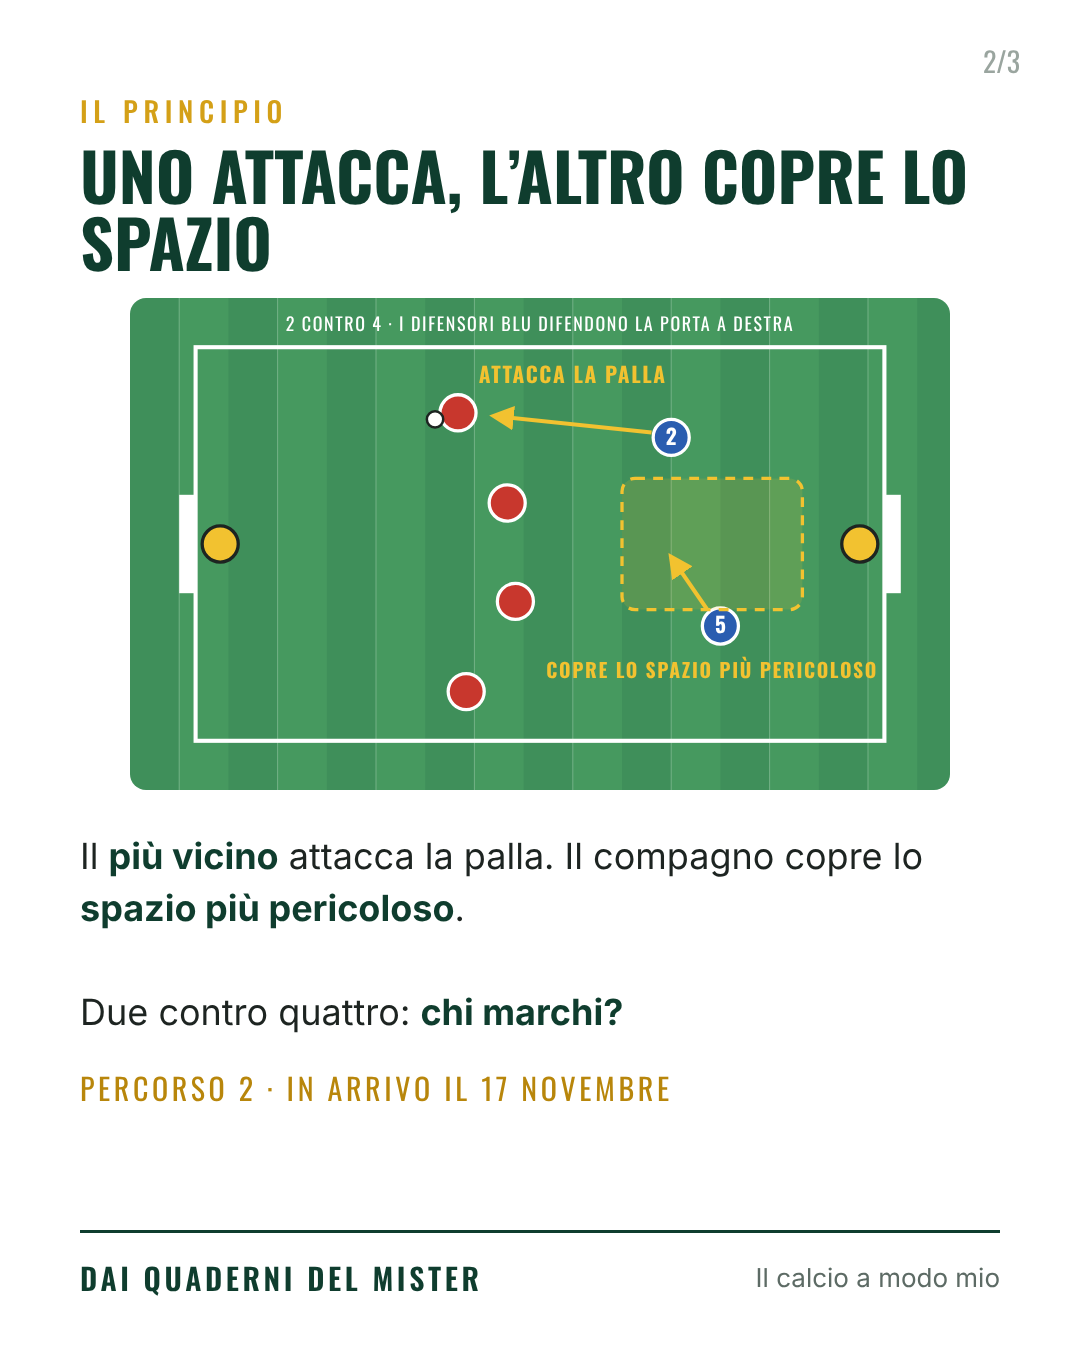
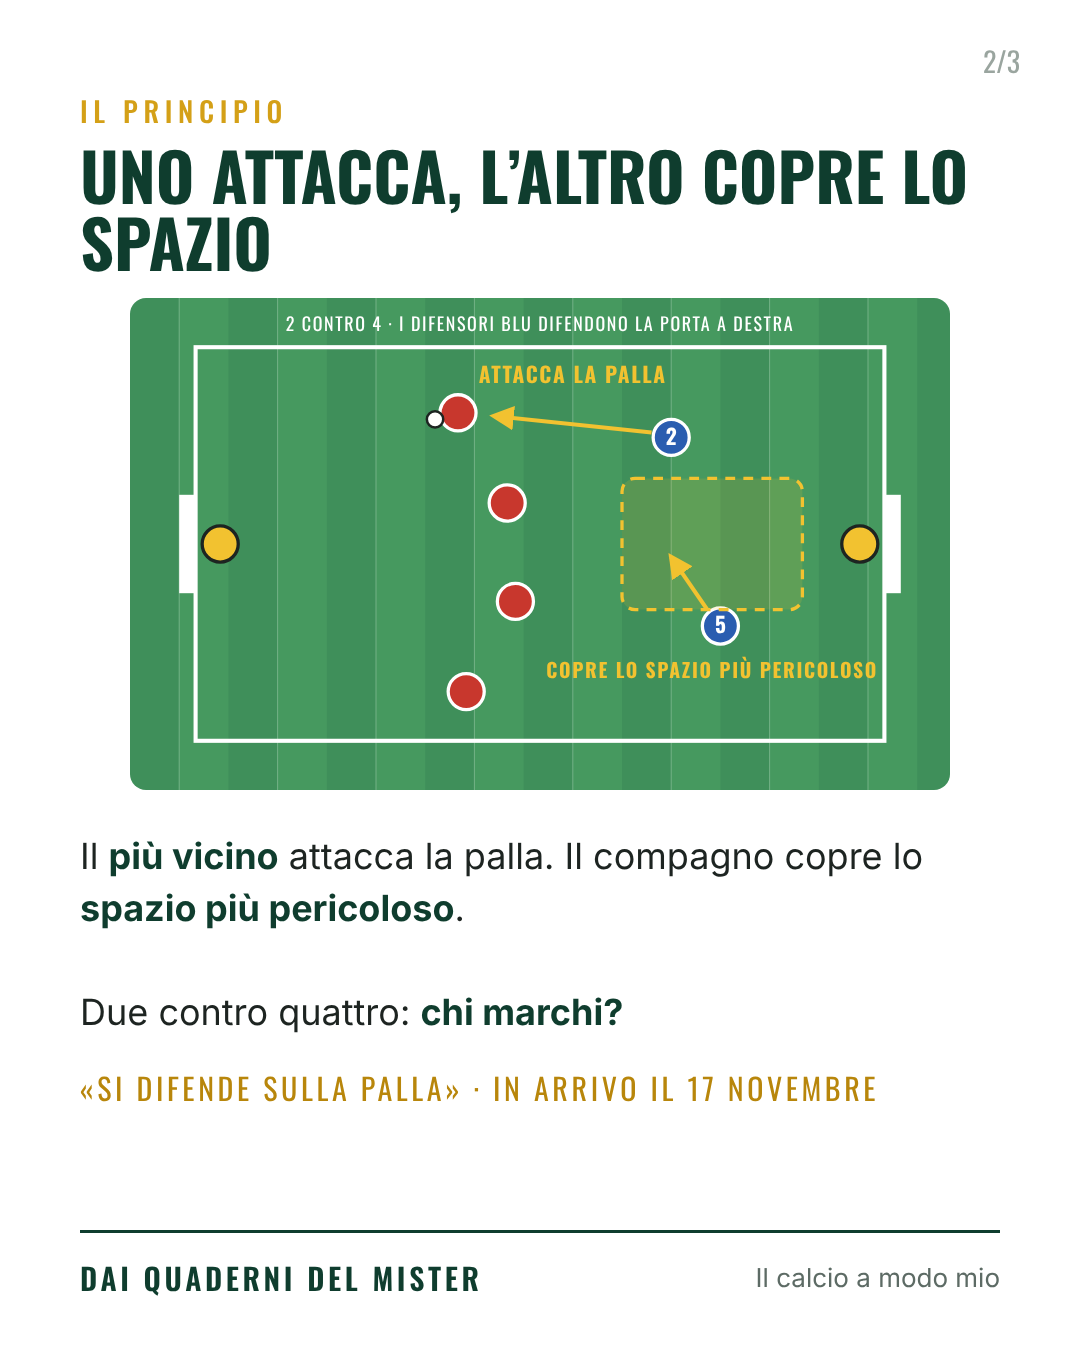
Percorso 2 diventa «Si difende sulla palla» (decisione dell'allenatore); post 13 aggiornato
Claude-Session: https://claude.ai/code/session_01Y6imChDnJpMKHUHGGzDa7m

Changed region(s): [[0.0611, 0.7778, 0.4278, 0.84], [0.4583, 0.7778, 0.6417, 0.84], [0.6722, 0.7778, 0.7944, 0.84]]

diff --git a/marketing/social/post-solo13-4x5.html b/marketing/social/post-solo13-4x5.html
@@ -108,12 +108,12 @@ h1, h2 { font-family: Oswald, sans-serif; font-weight: 700; text-transform: uppe
     <text x="270" y="52" fill="#f2c230" font-family="Oswald" font-size="13" font-weight="700" text-anchor="middle" letter-spacing="1">ATTACCA LA PALLA</text>
     <text x="355" y="232" fill="#f2c230" font-family="Oswald" font-size="12" font-weight="700" text-anchor="middle" letter-spacing="1">COPRE LO SPAZIO PIÙ PERICOLOSO</text>
     <text x="250" y="20" fill="#fff" font-family="Oswald" font-size="11" text-anchor="middle" letter-spacing="1">2 CONTRO 4 · I DIFENSORI BLU DIFENDONO LA PORTA A DESTRA</text>
-  </svg></div><p class="desc">Il <b>più vicino</b> attacca la palla. Il compagno copre lo <b>spazio più pericoloso</b>.<br><br>Due contro quattro: <b>chi marchi?</b></p><p class="desc" style="margin-top:28px;font-family:Oswald;text-transform:uppercase;letter-spacing:.12em;font-size:30px;color:#b8860b">Percorso 2 · in arrivo il 17 novembre</p>
+  </svg></div><p class="desc">Il <b>più vicino</b> attacca la palla. Il compagno copre lo <b>spazio più pericoloso</b>.<br><br>Due contro quattro: <b>chi marchi?</b></p><p class="desc" style="margin-top:28px;font-family:Oswald;text-transform:uppercase;letter-spacing:.12em;font-size:30px;color:#b8860b">«Si difende sulla palla» · in arrivo il 17 novembre</p>
   <div class="marchio"><b>DAI QUADERNI DEL MISTER</b><span>Il calcio a modo mio</span></div>
 </section>
 <section class="slide fine">
   <img class="logo2" src="../../materiale/brand/logo-cerchio.png">
   <h1>Si legge<span>la palla</span></h1>
-  <p class="sub">Dai quaderni del mister · <b>Percorso 2</b> in arrivo.<br><br>Le novità escono prima sul canale WhatsApp <b>Il calcio a modo mio</b>. Link in bio.</p>
+  <p class="sub">Dai quaderni del mister · <b>Si difende sulla palla</b>: la linea a quattro, dal 2 contro 2 al 6 contro 10. In arrivo il 17 novembre.<br><br>Le novità escono prima sul canale WhatsApp <b>Il calcio a modo mio</b>. Link in bio.</p>
   <div class="azioni"><div>Salva il post</div></div>
 </section></body></html>

diff --git a/marketing/social/post-solo13-9x16.html b/marketing/social/post-solo13-9x16.html
@@ -108,12 +108,12 @@ h1, h2 { font-family: Oswald, sans-serif; font-weight: 700; text-transform: uppe
     <text x="270" y="52" fill="#f2c230" font-family="Oswald" font-size="13" font-weight="700" text-anchor="middle" letter-spacing="1">ATTACCA LA PALLA</text>
     <text x="355" y="232" fill="#f2c230" font-family="Oswald" font-size="12" font-weight="700" text-anchor="middle" letter-spacing="1">COPRE LO SPAZIO PIÙ PERICOLOSO</text>
     <text x="250" y="20" fill="#fff" font-family="Oswald" font-size="11" text-anchor="middle" letter-spacing="1">2 CONTRO 4 · I DIFENSORI BLU DIFENDONO LA PORTA A DESTRA</text>
-  </svg></div><p class="desc">Il <b>più vicino</b> attacca la palla. Il compagno copre lo <b>spazio più pericoloso</b>.<br><br>Due contro quattro: <b>chi marchi?</b></p><p class="desc" style="margin-top:28px;font-family:Oswald;text-transform:uppercase;letter-spacing:.12em;font-size:30px;color:#b8860b">Percorso 2 · in arrivo il 17 novembre</p>
+  </svg></div><p class="desc">Il <b>più vicino</b> attacca la palla. Il compagno copre lo <b>spazio più pericoloso</b>.<br><br>Due contro quattro: <b>chi marchi?</b></p><p class="desc" style="margin-top:28px;font-family:Oswald;text-transform:uppercase;letter-spacing:.12em;font-size:30px;color:#b8860b">«Si difende sulla palla» · in arrivo il 17 novembre</p>
   <div class="marchio"><b>DAI QUADERNI DEL MISTER</b><span>Il calcio a modo mio</span></div>
 </section>
 <section class="slide fine">
   <img class="logo2" src="../../materiale/brand/logo-cerchio.png">
   <h1>Si legge<span>la palla</span></h1>
-  <p class="sub">Dai quaderni del mister · <b>Percorso 2</b> in arrivo. Seguici per non perderlo.</p>
+  <p class="sub">Dai quaderni del mister · <b>Si difende sulla palla</b>: la linea a quattro, dal 2 contro 2 al 6 contro 10. In arrivo il 17 novembre. Seguici per non perderlo.</p>
   <div class="azioni"><div>Salva il post</div></div>
 </section></body></html>

diff --git a/marketing/social/genera-post.py b/marketing/social/genera-post.py
@@ -456,12 +456,12 @@ POST = [
         custom=[
             dict(kicker="Il principio", titolo="Uno attacca, l’altro copre lo spazio", schema=schema_coppia4(),
                  testo="Il <b>più vicino</b> attacca la palla. Il compagno copre lo <b>spazio più pericoloso</b>.<br><br>Due contro quattro: <b>chi marchi?</b>",
-                 html='<p class="desc" style="margin-top:28px;font-family:Oswald;text-transform:uppercase;letter-spacing:.12em;font-size:30px;color:#b8860b">Percorso 2 · in arrivo il 17 novembre</p>',
+                 html='<p class="desc" style="margin-top:28px;font-family:Oswald;text-transform:uppercase;letter-spacing:.12em;font-size:30px;color:#b8860b">«Si difende sulla palla» · in arrivo il 17 novembre</p>',
                  h2style="font-size:66px;margin-bottom:22px", riqstyle="width:100%;max-width:820px;margin:0 auto"),
         ],
         fine_h1="Si legge<span>la palla</span>",
-        fine_sub="Dai quaderni del mister · <b>Percorso 2</b> in arrivo.<br><br>Le novità escono prima sul canale WhatsApp <b>Il calcio a modo mio</b>. Link in bio.",
-        fine_sub_tt="Dai quaderni del mister · <b>Percorso 2</b> in arrivo. Seguici per non perderlo.",
+        fine_sub="Dai quaderni del mister · <b>Si difende sulla palla</b>: la linea a quattro, dal 2 contro 2 al 6 contro 10. In arrivo il 17 novembre.<br><br>Le novità escono prima sul canale WhatsApp <b>Il calcio a modo mio</b>. Link in bio.",
+        fine_sub_tt="Dai quaderni del mister · <b>Si difende sulla palla</b>: la linea a quattro, dal 2 contro 2 al 6 contro 10. In arrivo il 17 novembre. Seguici per non perderlo.",
         azioni=["Salva il post"],
     ),
 ]

diff --git a/CLAUDE.md b/CLAUDE.md
@@ -202,7 +202,7 @@ Playwright e Chromium sono già installati nell'ambiente. I font sono locali
   dal 4c6 porticine esterne da 6 m all'altezza della porta mobile con un riferimento. Campi 2c2 18 × 24, 2c4 30 × 24 (proposta), dal 4c6 metà campo. Tempi 4 × 1'30"
   (rec. 30-40") nel 2c2 e 2c4, poi 4 × 5' (rec. 1'30"; l'adattamento dopo lavoro fisico intenso non è ricordato: solo nota editoriale). Ruoli fissi, coppie mai miste. Dati in
   `prodotti/percorsi/linea-difende-la-palla/bozza.md`; PDF 10 pagine + copertina da `genera-percorso-linea.py` (copertina blu notte). Metodo "coppie per ruolo"
-  (2c2 del venerdì, 4c4/5c5) = idea per un percorso futuro. L'allenatore teme che il metodo venga copiato: deciso tutto nel PDF, nei post solo assaggi, nota © nel PDF. **1/11: PDF pronto (11 pagine) in `prodotti/percorsi/linea-difende-la-palla/`; uscita Etsy approvata per martedì 17/11 a 6,90 €, preceduta da 2 settimane di post sulla linea (un principio per post, mai l'esercitazione completa); annuncio da preparare la settimana del 9/11.**
+  (2c2 del venerdì, 4c4/5c5) = idea per un percorso futuro. L'allenatore teme che il metodo venga copiato: deciso tutto nel PDF, nei post solo assaggi, nota © nel PDF. **5/11: NOME NUOVO deciso dall'allenatore: «Si difende sulla palla» (sottotitolo: la linea a quattro, dal 2 contro 2 al 6 contro 10); nei post mai "Percorso 2" (per chi legge non vuol dire niente); il titolo del PDF va cambiato nella conversazione ALLENAMENTI prima del 17/11.** **1/11: PDF pronto (11 pagine) in `prodotti/percorsi/linea-difende-la-palla/`; uscita Etsy approvata per martedì 17/11 a 6,90 €, preceduta da 2 settimane di post sulla linea (un principio per post, mai l'esercitazione completa); annuncio da preparare la settimana del 9/11.**
 - (storico) Percorso "Ricerca del portiere" (**7 tappe**, confermate il 17/10): contenuti in costruzione in `prodotti/percorsi/ricerca-del-portiere/bozza.md`,
   **non impaginare finché l'allenatore non approva il pacchetto**.
   **20/10 sera, rifatto (l'allenatore: la prima versione era confusa)**. Regole per tutti i percorsi:

diff --git a/marketing/social/testi-dei-post.md b/marketing/social/testi-dei-post.md
@@ -256,13 +256,13 @@ Si difende sulla palla, non sugli uomini. Il più vicino attacca la palla, l'alt
 Secondo post di preparazione al Percorso 2. Principio dalla guida del Percorso 2 (in inferiorità si legge la palla, il più vicino la attacca, gli altri coprono). Domanda scritta da Claude. Prima regola dei caroselli a 3 immagini con il rimando nella seconda.
 
 **Didascalia Instagram / Facebook**
-Percorso 2 in arrivo il 17 novembre: seguici per non perderlo.
+«Si difende sulla palla», la linea a quattro dal 2 contro 2 al 6 contro 10: in arrivo il 17 novembre, seguici per non perderlo.
 In inferiorità si legge la palla. Il più vicino la attacca, il compagno copre lo spazio più pericoloso.
 Due contro quattro: chi marchi?
 #allenatore #calcio #mister #difesa #lineadifensiva
 
 **Didascalia TikTok**
-Percorso 2 in arrivo il 17 novembre. In inferiorità si legge la palla: il più vicino la attacca, l'altro copre lo spazio più pericoloso. Due contro quattro, chi marchi? #allenatore #calcio #mister #difesa
+«Si difende sulla palla» in arrivo il 17 novembre. In inferiorità si legge la palla: il più vicino la attacca, l'altro copre lo spazio più pericoloso. Due contro quattro, chi marchi? #allenatore #calcio #mister #difesa
 
 **Gruppo Facebook di allenatori** (solo la prima immagine; gruppo: L'allenatore di Calcio)
 Una domanda per chi allena la difesa.
